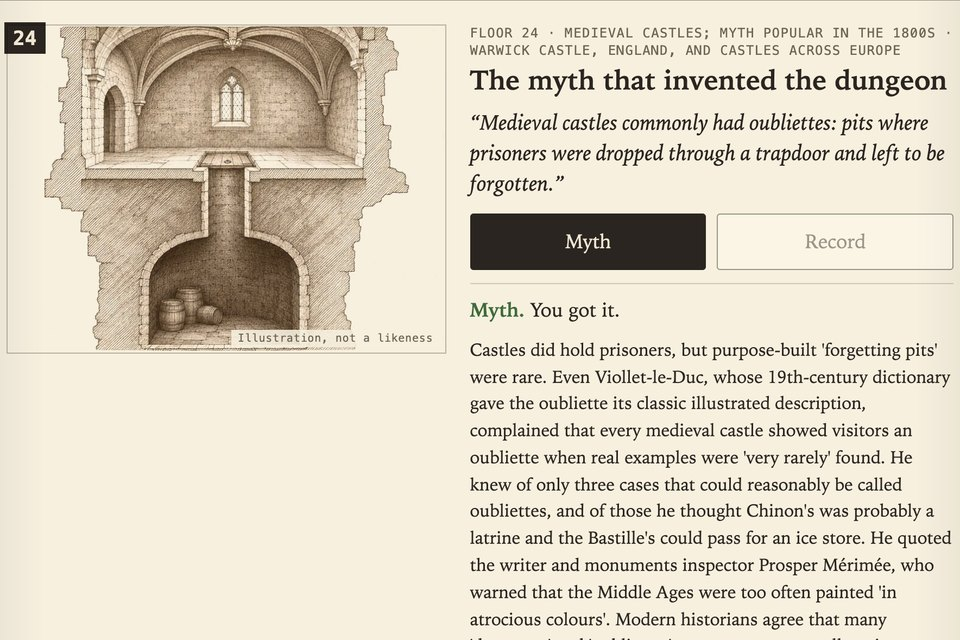
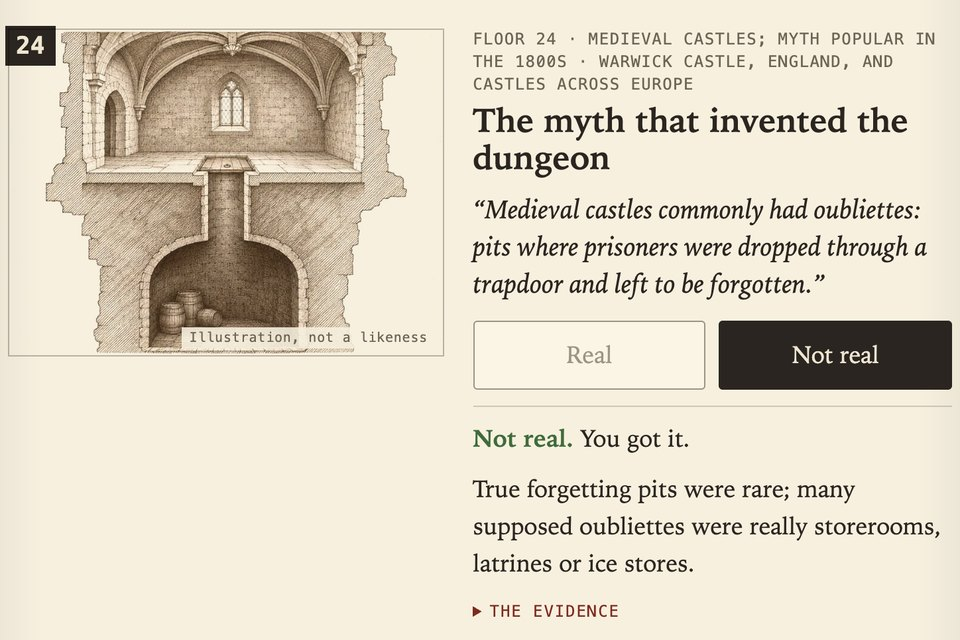
Real or Not: clearer buttons, one-line answers, evidence folded away
Renames the dungeons page to Real or Not?, with Real / Not real buttons, a
one-sentence answer under each verdict, and the explanation, fine print
and sources folded under The evidence.

Changed region(s): [[0.0, 0.0312, 1.0, 1.0]]

diff --git a/experiments/myth-or-record/index.html b/experiments/myth-or-record/index.html
@@ -4,8 +4,8 @@
   <meta charset="utf-8">
   <meta name="viewport" content="width=device-width,initial-scale=1">
   <meta name="theme-color" content="#efe6d2">
-  <title>Myth or Record? Prisons and dungeons, 1200–1800 — Zero Page Labs</title>
-  <meta name="description" content="Descend 24 floors of real prisons and dungeons, from the Inquisition's wall at Carcassonne to the storming of the Bastille. At each one, decide: myth or record? Every answer is sourced.">
+  <title>Real or Not? Prisons and dungeons, 1200–1800 — Zero Page Labs</title>
+  <meta name="description" content="Descend 24 floors of real prisons and dungeons, from the Inquisition's wall at Carcassonne to the storming of the Bastille. At each one, decide: real or not? Every answer is sourced.">
   <link rel="canonical" href="https://zeropagelabs.com/experiments/myth-or-record/">
   <link rel="icon" href="/assets/favicon.svg">
   <link rel="stylesheet" href="myth.css">
@@ -22,7 +22,7 @@
   <header class="title-row">
     <div>
       <p class="kicker">Prisons and dungeons, 1200–1800</p>
-      <h1>Myth <em>or</em> Record?</h1>
+      <h1>Real <em>or</em> Not?</h1>
     </div>
     <p class="plate">24 FLOORS · 24 REAL PLACES<br>EVERY ANSWER SOURCED</p>
   </header>
@@ -32,8 +32,8 @@
       <img src="art/crown.webp" alt="An engraving of the top of a stone tower cut away to show its roof and great hall" width="1200" height="675">
     </figure>
     <div class="intro-text">
-      <p class="lede">Most of what people “know” about dungeons was written long after the doors were locked. Climb down this tower, one floor at a time. Each floor is a real prison, in date order. At each one, decide whether the story is <b>myth</b> or <b>record</b>, then see the evidence.</p>
-      <p class="honest"><b>About this tower:</b> it is a composite. No such building exists; each floor stands for a different real place. The floor pictures are modern illustrations, not likenesses. The claims, verdicts and sources are the part to trust, and where a story is disputed or simplified, the floor says so.</p>
+      <p class="lede">Climb down 24 floors. Each is a real prison, from 1306 to 1793. Is its famous story <b>real</b> or <b>not</b>?</p>
+      <p class="honest">The tower is a composite: each floor is a different real place. Pictures are illustrations, not likenesses. Every answer is sourced.</p>
     </div>
   </section>
 
@@ -60,7 +60,7 @@
     <h2>How this was made</h2>
     <ul>
       <li>Each floor was researched from at least two sources, at least one of them not Wikipedia: heritage bodies, museums, published histories and, where they survive, the prisoners’ own accounts. Every link was opened and checked against what it is cited for.</li>
-      <li>Each claim is phrased so its answer can be defended. Where the honest answer is “partly”, the floor gives the verdict that fits the wording and explains the rest under <i>What’s simplified</i>.</li>
+      <li>Each claim is phrased so its answer can be defended. Where the honest answer is “partly”, the floor gives the verdict that fits the wording and explains the rest under <i>Fine print</i>.</li>
       <li>Floors 1–23 run in date order. Floor 24, the oubliette, is a story about many places, and comes last because it is where the popular idea of the dungeon bottoms out.</li>
       <li>Illustrations were drawn with an image model from the researchers’ descriptions, in the style of an old engraving. They are not likenesses of the real rooms.</li>
     </ul>

diff --git a/experiments/myth-or-record/myth.css b/experiments/myth-or-record/myth.css
@@ -76,8 +76,12 @@ h1 em { color: var(--red); font-weight: 400; }
 .verdict.right b { color: var(--green); }
 .verdict.wrong b { color: var(--red); }
 .nuance { padding: 8px 12px; background: rgba(126,42,31,.08); border-left: 3px solid var(--red); font-size: 15px; }
-.sources summary { cursor: pointer; font: 12px/1.4 var(--mono); letter-spacing: .08em; text-transform: uppercase; color: var(--muted); }
-.sources ol { margin: 8px 0 0; padding-left: 20px; font-size: 14px; }
+.answer { font-size: 18px; }
+.more { margin-top: 4px; }
+.more summary { cursor: pointer; font: 12px/1.4 var(--mono); letter-spacing: .08em; text-transform: uppercase; color: var(--red); padding: 4px 0; }
+.more[open] summary { margin-bottom: 8px; }
+.src-head { margin: 12px 0 4px !important; font: 12px/1.4 var(--mono); letter-spacing: .08em; text-transform: uppercase; color: var(--muted); }
+ol.sources { margin: 0; padding-left: 20px; font-size: 14px; }
 .sources li { margin-bottom: 6px; overflow-wrap: anywhere; }
 .supports { color: var(--muted); }
 

diff --git a/execution/assemble_myth_floors.py b/execution/assemble_myth_floors.py
@@ -18,7 +18,7 @@ ROOT = Path(__file__).resolve().parent.parent
 SRC = ROOT / "execution" / "myth_research"  # the researchers' raw batches, kept as provenance
 OUT = ROOT / "experiments" / "myth-or-record" / "floors.json"
 FIELDS = ["floor", "id", "site", "short", "place", "lat", "lon", "years", "sortYear", "title", "claim", "verdict",
-          "explanation", "nuance", "visual", "sources", "confidence"]
+          "answer", "explanation", "nuance", "visual", "sources", "confidence"]
 LAST = "oubliette"
 
 # Editorial overrides applied on top of the researchers' text. They change voice and
@@ -98,6 +98,35 @@ DROP_SOURCES = {
     "mont-saint-michel-cage": ["https://en.wikipedia.org/wiki/Louis_Philippe_I"],
 }
 
+# One plain sentence shown under the verdict. Written only from each floor's own
+# (verified) explanation; the full explanation, fine print and sources sit below it.
+ANSWERS = {
+    "carcassonne": "He was sentenced in December 1319 to life in the Inquisition's prison he had fought, and died in early 1320.",
+    "loches": "The cages existed, but no source from Balue's lifetime puts him in one; the Catholic Encyclopedia traces the story to 16th-century Italy.",
+    "daliborka": "Dalibor was a real prisoner, but violins didn't reach Bohemia until about a century after his execution in 1498.",
+    "chillon": "Bonivard spent about two years in rooms in the castle and four in the dungeon. The chained-to-a-pillar picture comes from Byron's poem.",
+    "castel-sant-angelo": "Cellini's own memoir describes the linen rope and the broken leg, and other accounts confirm the escape and recapture.",
+    "st-andrews": "Historic Environment Scotland says the murdered cardinal's body was certainly kept in the bottle dungeon, packed in salt.",
+    "nuremberg": "The cells mostly held people awaiting trial or execution. Punishment was usually branding, flogging or death, not a long sentence.",
+    "little-ease": "A priest was kept there for eighteen months from 1582, and Victorian historians describe it as too small to stand or lie in, though its exact place and size are uncertain.",
+    "cachtice": "The 1611 witnesses accused her of torture and murder, but not blood baths. That story first appears in print around 1729.",
+    "lancaster": "She died in Lancaster Castle while waiting for the August 1612 trials.",
+    "pignerol": "Fouquet died at Pignerol in 1680. The masked prisoner died in the Bastille 23 years later.",
+    "iron-mask": "The Bastille's own officer wrote down a black velvet mask. The iron came later, from legend and Voltaire.",
+    "dunnottar": "About 167 men and women were held in one cellar for some two months in 1685.",
+    "peter-paul": "Alexei died in the fortress on 26 June 1718 (Old Style), two days after his last flogging; exactly how is still debated.",
+    "marshalsea": "The inquiry exposed terrible conditions, and Acton was tried for four murders, but he was acquitted every time.",
+    "newgate": "Gaol fever from Newgate killed the Lord Mayor, two judges and many others at the 1750 sessions.",
+    "magdeburg": "He was held for nearly ten years and chained to the wall after his escape attempts.",
+    "black-hole-calcutta": "Many died that night, but the 146 and 123 come from one survivor's pamphlet, and historians think far fewer were inside.",
+    "piombi-casanova": "Venice's own records punish the jailer for the escape and pay for repairing the hole they broke out through.",
+    "chateau-d-if": "Mirabeau was held there for some months from 1774 on a royal order. Dantès and Faria are fiction.",
+    "mont-saint-michel-cage": "Louis-Philippe, who saw it as a boy, remembered it as made of great pieces of wood, and the architect Corroyer, who studied the abbey, wrote in 1877 that it was wood.",
+    "bastille": "Four forgers, two men judged mad and one count: seven prisoners in all.",
+    "iron-maiden-nuremberg": "No medieval use is recorded. The story appears in the 1790s, and the cabinets shown were assembled in the 1800s.",
+    "oubliette": "True forgetting pits were rare; many supposed oubliettes were really storerooms, latrines or ice stores.",
+}
+
 
 def apply_replacements(f: dict) -> None:
     for field, old, new in REPLACE.get(f["id"], []):
@@ -135,6 +164,9 @@ def main() -> int:
         f["floor"] = n
         f["short"] = SHORT.get(f["id"], f["site"])
         apply_replacements(f)
+        if f["id"] not in ANSWERS:
+            raise SystemExit(f"{f['id']}: no one-line answer in ANSWERS")
+        f["answer"] = ANSWERS[f["id"]]
         f.update(EDITS.get(f["id"], {}))
     clean = [{k: f.get(k, "") for k in FIELDS} for f in floors]
     OUT.write_text(json.dumps({"floors": clean}, ensure_ascii=False, indent=1) + "\n")

diff --git a/knowledge/SESSION.md b/knowledge/SESSION.md
@@ -15,6 +15,7 @@ Verdict: pending
 - Pipeline: three research agents (8 sites each) wrote JSON with claims, verdicts, explanations, nuance, visual notes and opened-URL sources; kept as provenance in execution/myth_research/. execution/assemble_myth_floors.py sorts by sortYear (oubliette last), renumbers, and applies EDITS (voice: no first person or research-process talk; short gauge names) and REPLACE (exact find-and-replace corrections that fail the build if their target text disappears) and DROP_SOURCES.
 - Verification: all 88 URLs fetched (two sites block bots: radio.cz, larousse.fr; the verifier later fetched Larousse); 23 phrase spot-checks matched; Manifold (Oglethorpe report) needs a real browser. Independent verifier FAILED the first build; fixes listed in task.md; re-review PASS. Open: radio.cz (Daliborka source 2) never opened by us or the verifier.
 - Art: execution/generate_myth_art.py + execution/myth_art_briefs.json (hand briefs, specific where sources describe the room) + execution/prepare_myth_art.py (divides out the paper tone so multiply-blend sits on the page). Images labelled "Illustration, not a likeness"; briefs avoid depicting myths as fact (no ring on Chillon's pillar, no bricked door at Čachtice, barrels in the oubliette).
+- Feedback 2026-11-27 ("lots of text. a 'real or not' button would be clearer. not sure what 'what's simplified' is for"): renamed to Real or Not? (slug unchanged), buttons Real / Not real, a one-sentence answer under the verdict (ANSWERS in assemble_myth_floors.py, written only from each floor's verified explanation and checked by a verifier, which caught 'most' vs 'many' and four softer slips), and the explanation, 'Fine print' (was 'What's simplified') and sources folded under 'The evidence'. Intro cut to two lines.
 - Lesson: editorial rewording of researched text is where meaning drifted (two of my overrides overstated); keep corrections as exact replacements and have the verifier diff overrides against the raw research.
 
 ## 2026-11-26 Longitude, 1714 (dead-reckoning voyage game)
